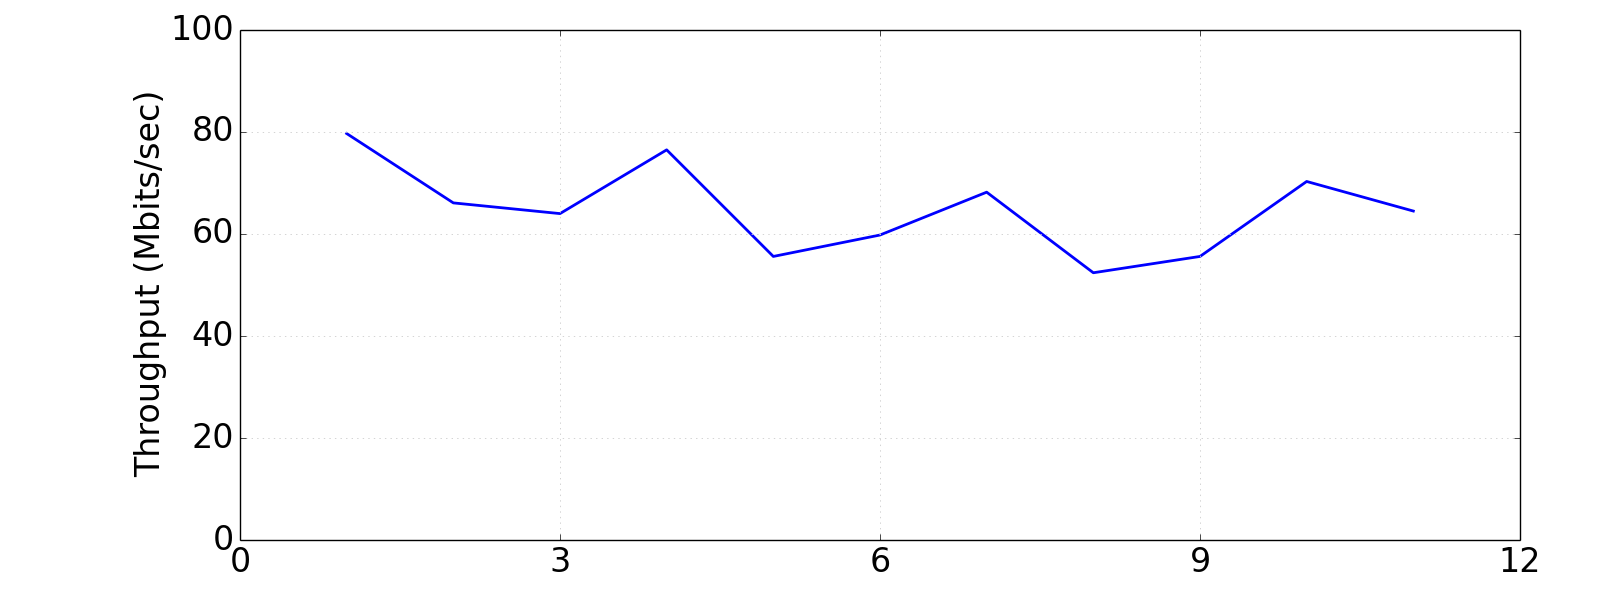
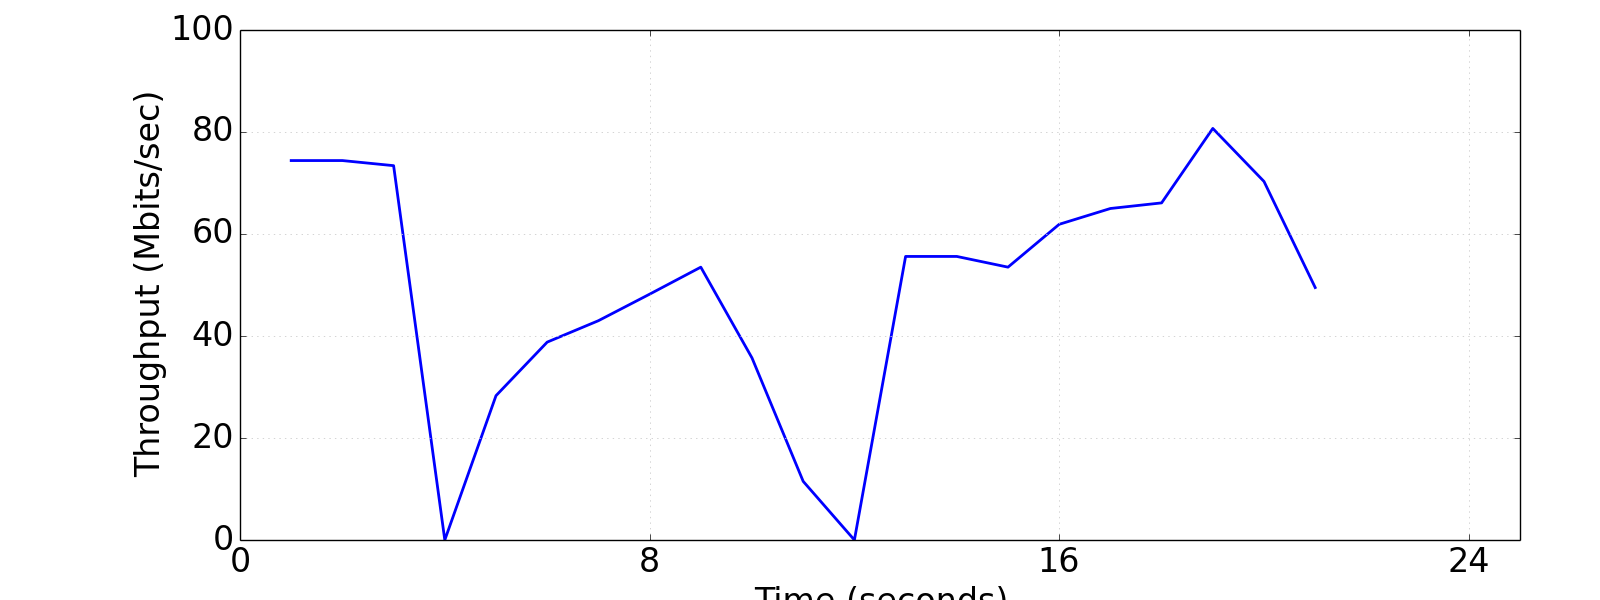
mostly works, some weirdness

diff --git a/pox/pox/ext/dcell_controller.py b/pox/pox/ext/dcell_controller.py
@@ -30,7 +30,7 @@ import struct
 from pox.lib.packet.ipv4 import ipv4
 from pox.ext.util import SwitchIDGenerator, GetDCellLink
 from pox.ext.dcell_constants import N, L, NUM_SWITCHES
-
+from time import sleep
 log = core.getLogger()
 
 # Switches we know of.  [dpid] -> Switch
@@ -44,6 +44,7 @@ class DCellSwitch (object):
     self._listeners = None
     self.id_gen = SwitchIDGenerator()
     self.interDCELL_link_failed = False
+    self.host_failed = False
 
   def getHostMac(self):
     assert self.dpid is not None
@@ -67,7 +68,6 @@ class DCellSwitch (object):
     assert(self.dpid == dpid)
     self.connection = connection
     self._listeners = connection.addListeners(self)
-    connection.send(of.ofp_flow_mod(match=of.ofp_match(),command=of.OFPFC_DELETE))
     log.info("Connect %s" % (connection,))
 
   def disconnect (self):
@@ -200,12 +200,20 @@ class DCellSwitch (object):
     if self.id_gen.switch_type != self.id_gen.SWITCH:
 	return # there is no action we need to take if it's the master's end
     if event.port != 3:
+	# Host failure
+	if event.modified and event.ofp.desc.state == 1 and event.port == 1:
+		self.host_failed = True
+		sleep(5)
+	if event.modified and event.ofp.desc.state == 0 and self.host_failed:
+		self.host_failed = False
 	return # we only care about links that cross DCells (we assume no rack failure)
     curr_switch_name = self.id_gen.getName()
     if event.modified and event.ofp.desc.state == 1 and not self.interDCELL_link_failed:
 	# dropped
         print "dropped", event.port, curr_switch_name, self.GetInterDCellSwitchName()
-        self.handleFailedLink()
+	if not self.host_failed:
+	    sleep(0.5)
+	self.handleFailedLink()
         self.interDCELL_link_failed = True # mark link as failed
     elif event.modified and event.ofp.desc.state == 0 and self.interDCELL_link_failed:
         # reactivated

diff --git a/pox/pox/ext/build_topology.py b/pox/pox/ext/build_topology.py
@@ -1,3 +1,4 @@
+import os
 import sys
 from mininet.topo import Topo
 from mininet.net import Mininet
@@ -26,8 +27,6 @@ class DCellTop (Topo):
 		if l == 0:
 			init_pref = ["0"]
 		self.build_topology(init_pref, n, l)
-		# self.build_trivial_topology()
-		print 'done building'
 
 	def find_t_k(self, n, l):
 		result = []
@@ -109,6 +108,7 @@ def start_iperf(net, name1, name2, duration):
 
 # return the link that was dropped
 def drop_link(net, name1, name2):
+	print "dropping link", name1, name2
 	net.configLinkStatus(name1, name2, "down")
 
 def add_link(net, name1, name2):
@@ -155,17 +155,20 @@ def main():
 	n = int(sys.argv[1])
 	l = int(sys.argv[2])
 
-	iperf_duration = 15
-	drop_link_time = 3
-	pick_up_link_time = 7
-	drop_server_time = 10
-	pick_up_server_time = 13
+	iperf_duration = 160
+	drop_link_time = 34
+	pick_up_link_time = 42
+	drop_server_time = 104
 
 	topo = DCellTop(n, l)
 	net = Mininet(topo=topo, host=CPULimitedHost, link = TCLink, controller=RemoteController)
-        net.start()
+        
+	net.start()
+	dumpNodeConnections(net.hosts)
 	CLI(net)
-	net.pingAll()	
+	net.pingAll()
+	CLI(net)
+	
 	start_time = time()
 	start_iperf(net, "h00", "h43", iperf_duration)
 
@@ -183,16 +186,14 @@ def main():
 			add_link(net, "s03", "s40")
 			exp_status = 2
 		if delta > drop_server_time and exp_status == 2:
-			#print "dropping server"
-			#stop_server(net, "s03")
+			print "dropping server"
+			stop_server(net, "s03")
 			exp_status = 3
-		if delta > pick_up_server_time and exp_status == 3:
-			#print "picking up server"
-			#start_server(net, "s03")
-			exp_status = 4
-		if delta > iperf_duration + 5:
+		if delta > iperf_duration + 2:
 			break
 	net.stop()
+  	# os.system("python ./plot_throughput.py -f h00_h43_iperf.txt -o throughput_plot.png")
+	
 
 if __name__ == "__main__":
 	main()
